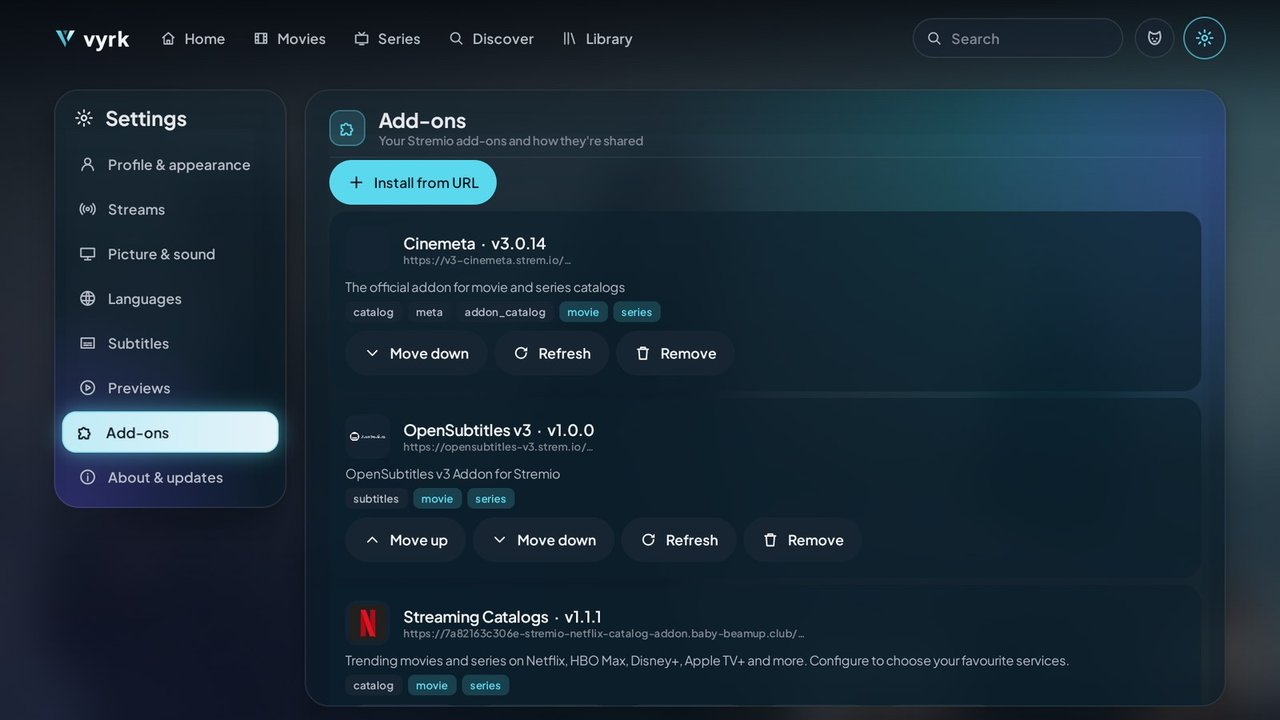
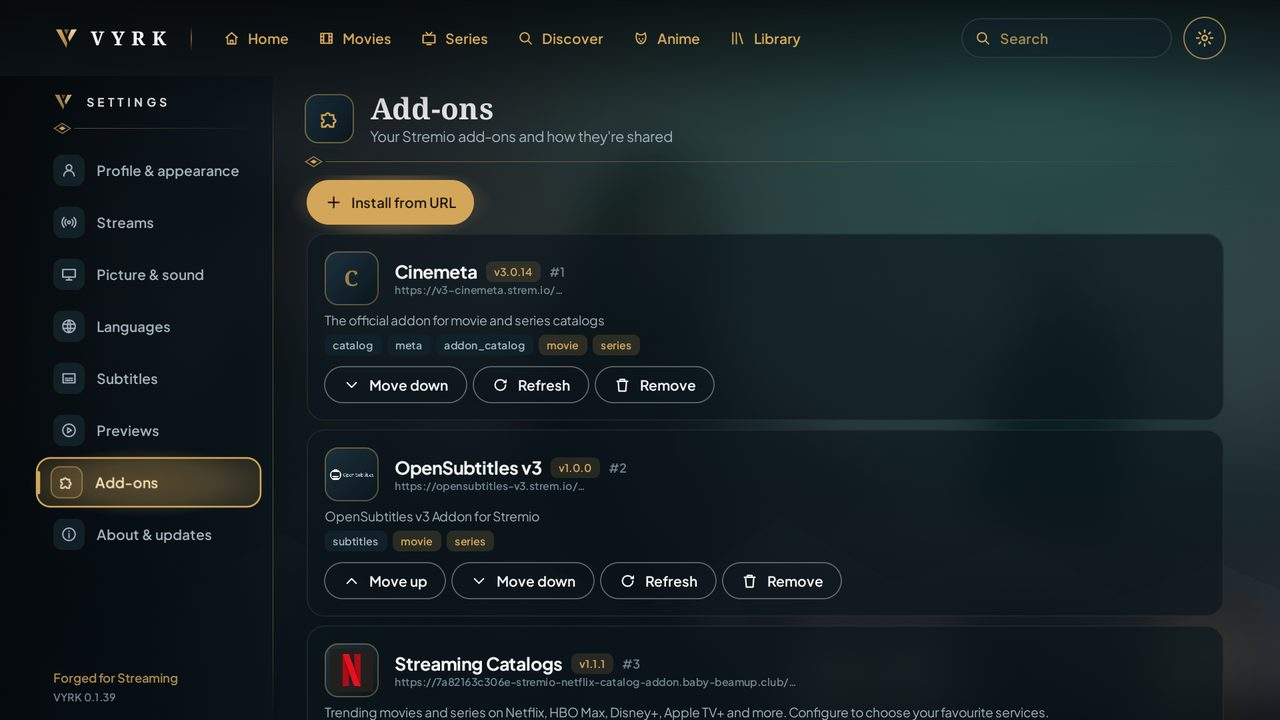
Docs: screenshots from v0.1.39
README gallery, banner and social preview from the ci-showcase captures of
8b766ac (v0.1.39), and the website's 1280x720 shots and og:image resized
from the same 1080p captures. Every previous image showed the old frost-blue
look.

Captions follow what the new captures show: the series shot is now the
series title page, not the episode guide, and the "audio & subtitles"
capture shows the lower-quality prompt rather than the track panel.

Claude-Session: https://claude.ai/code/session_01Hd75hT9MWUJ8gMzxYVPqJP

diff --git a/site/index.html b/site/index.html
@@ -112,8 +112,8 @@
         <h2>See it on the big screen</h2>
         <p class="section-lede">Captures of the real app on an Android TV emulator with live catalogues.</p>
         <div class="gallery">
-          <figure><img src="img/shots/title-page.jpg" alt="Full-screen title page for Saturday Night with cast photos and Play, Trailer, library and more buttons" loading="lazy" width="1280" height="720"><figcaption><strong>Title page</strong> full screen, with the cast</figcaption></figure>
-          <figure><img src="img/shots/episodes.jpg" alt="Black Doves episodes with stills and air dates beside the cast and crew" loading="lazy" width="1280" height="720"><figcaption><strong>Episodes</strong> with stills, dates and watched state</figcaption></figure>
+          <figure><img src="img/shots/title-page.jpg" alt="Full-screen title page for Possible Love with cast photos and Play, Trailer, library, watched and info buttons" loading="lazy" width="1280" height="720"><figcaption><strong>Title page</strong> full screen, with the cast</figcaption></figure>
+          <figure><img src="img/shots/episodes.jpg" alt="Series page for Black Doves over the show's artwork, with seasons, runtime, synopsis, cast and a Play button" loading="lazy" width="1280" height="720"><figcaption><strong>Series</strong> full screen, with seasons and the cast</figcaption></figure>
           <figure><img src="img/shots/top10.jpg" alt="Top 10 on Netflix rows with large ranking numbers and a title header" loading="lazy" width="1280" height="720"><figcaption><strong>Top 10 rows</strong> per streaming service</figcaption></figure>
           <figure><img src="img/shots/player.jpg" alt="Player with round controls, time left and the time it ends" loading="lazy" width="1280" height="720"><figcaption><strong>Player</strong> with time left and "Ends at"</figcaption></figure>
           <figure><img src="img/shots/search.jpg" alt="Search with an on-screen keyboard and results for movies and series" loading="lazy" width="1280" height="720"><figcaption><strong>Search</strong> with a keyboard and voice</figcaption></figure>

diff --git a/README.md b/README.md
@@ -24,7 +24,7 @@ VYRK is a free, open-source Android TV client for Stremio add-ons. Sign in to yo
 | | | |
 |---|---|---|
 | ![Home](docs/images/screenshots/home.jpg)<br>**Home** — featured hero with Watch now, and arrows either side | ![Top 10](docs/images/screenshots/top10-rows.jpg)<br>**Top 10 rows** — ranked per service, with the title header and a muted trailer | ![Title page](docs/images/screenshots/info-page.jpg)<br>**Title page** — full screen, with cast photos; sources and episodes below |
-| ![Series](docs/images/screenshots/series-info.jpg)<br>**Series** — season guide with stills, air dates and watched state, beside the cast | ![Player](docs/images/screenshots/player.jpg)<br>**Player** — elapsed, remaining and "Ends at" | ![Audio & subtitles](docs/images/screenshots/audio-subtitles.jpg)<br>**Audio & subtitles** — languages as names, flags as a supplement |
+| ![Series](docs/images/screenshots/series-info.jpg)<br>**Series** — full screen over the show's artwork, with seasons, runtime and the cast | ![Player](docs/images/screenshots/player.jpg)<br>**Player** — elapsed, remaining and "Ends at" | ![Playback help](docs/images/screenshots/audio-subtitles.jpg)<br>**Playback help** — if playback keeps pausing, VYRK offers a lower quality |
 | ![Search](docs/images/screenshots/search.jpg)<br>**Search** — on-screen keyboard, results per type | ![Library](docs/images/screenshots/library.jpg)<br>**Library** — filters, sorts and progress | ![Top 10 suggestion](docs/images/screenshots/top10-suggestion.jpg)<br>**Top 10 suggestion** — one press adds the rows |
 | ![Add-ons](docs/images/screenshots/addons.jpg)<br>**Settings › Add-ons** — reorder, configure by QR, redacted URLs | ![Settings](docs/images/screenshots/settings.jpg)<br>**Settings** — glass sidebar and compact rows; source choice and stream limits | ![First run](docs/images/screenshots/first-run.jpg)<br>**First run** — sign in by QR or start without an account |
 
